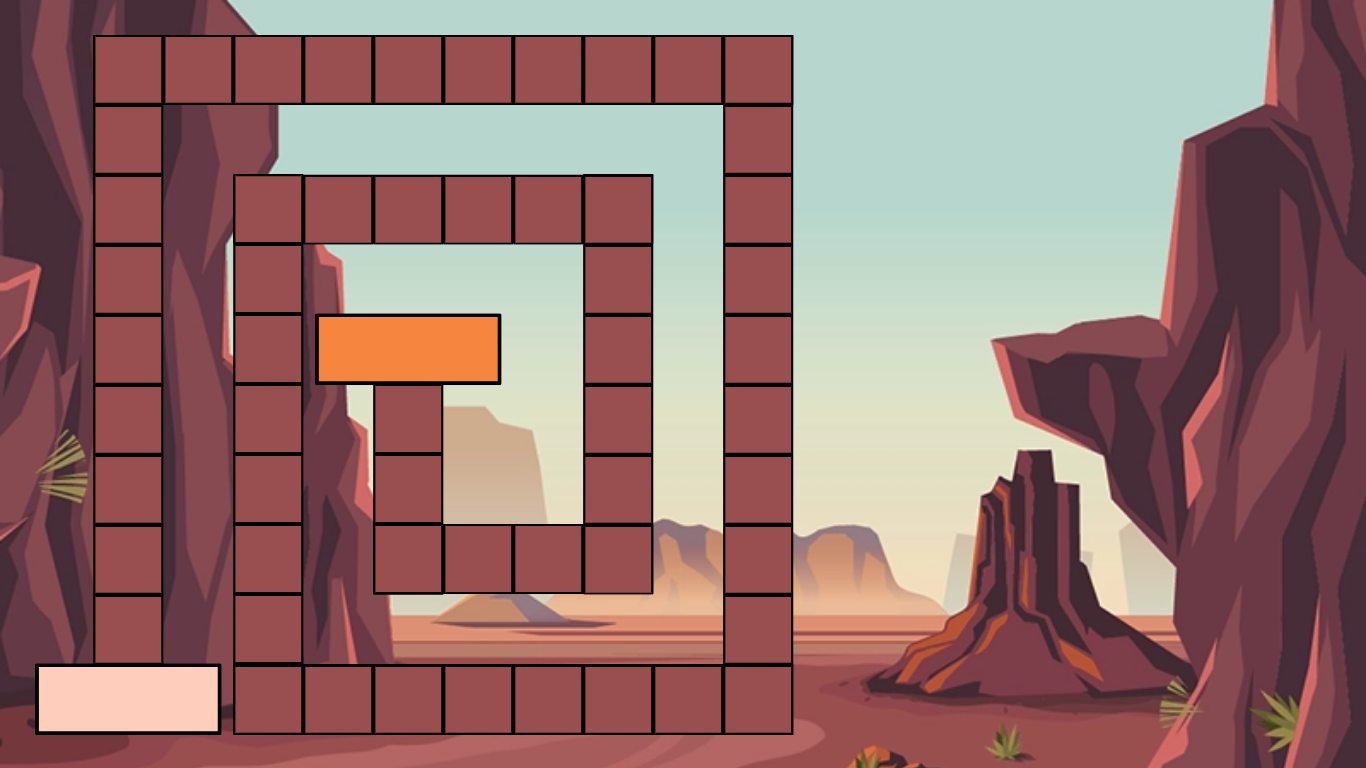
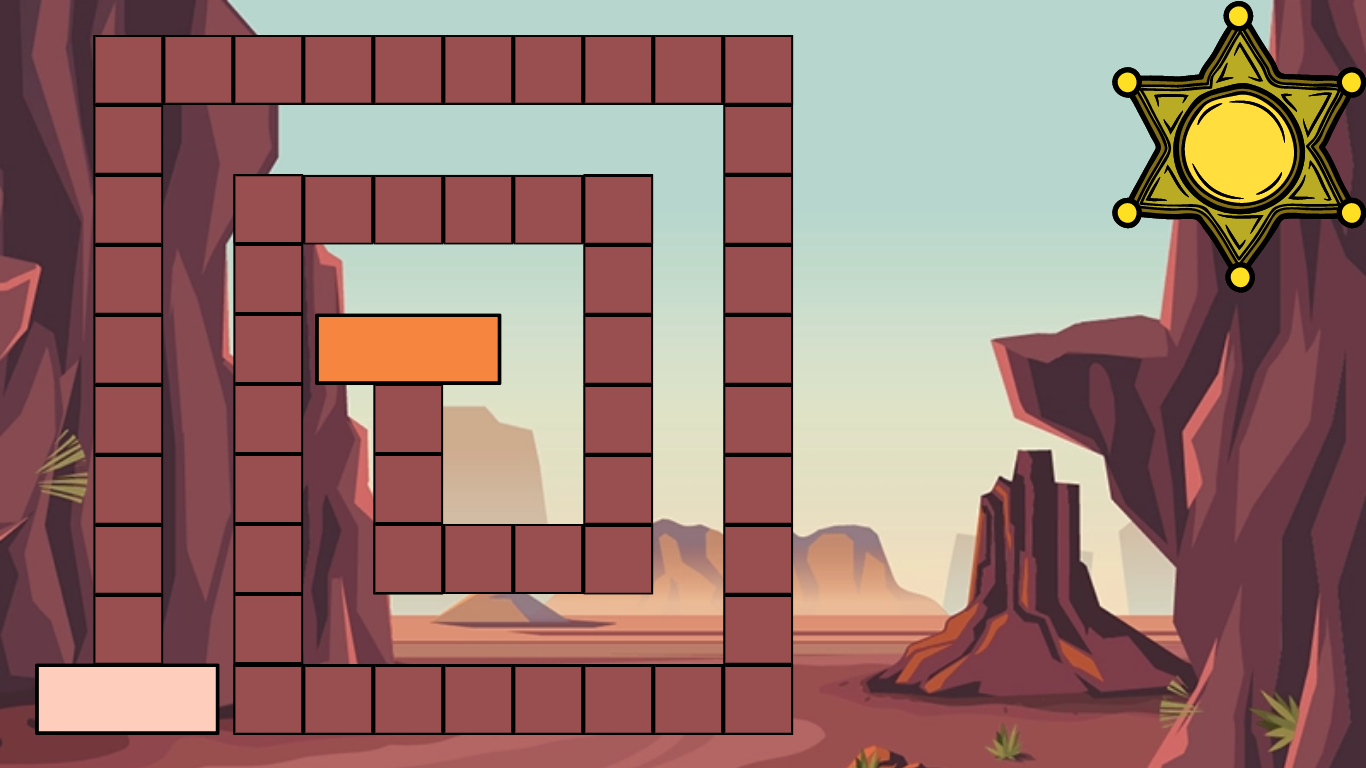
Dodanie interfejsu zmiany gracza(nazwa, zdjecie), dodanie kostki po rzucie

Changed region(s): [[0.7994, 0.0, 1.0, 0.375], [0.1537, 0.875, 0.1845, 0.9375]]

diff --git a/src/main/resources/com/example/grapio/style.css b/src/main/resources/com/example/grapio/style.css
@@ -40,3 +40,7 @@
     -fx-font-size: 32;
     -fx-control-inner-background: #d5951d;
 }
+
+.playerName {
+    -fx-text-fill: #fff;
+}

diff --git a/target/classes/com/example/grapio/style.css b/target/classes/com/example/grapio/style.css
@@ -40,3 +40,7 @@
     -fx-font-size: 32;
     -fx-control-inner-background: #d5951d;
 }
+
+.playerName {
+    -fx-text-fill: #fff;
+}

diff --git a/src/main/java/com/example/grapio/GameController.java b/src/main/java/com/example/grapio/GameController.java
@@ -24,15 +24,20 @@ public class GameController {
     private Board board;
 
     @FXML
-    Label diceLabel;
+    private Label playerLabel;
+
+    @FXML
+    private ImageView playerImage, diceImage;
 
     @FXML
     public void throwDice() {
         int roll = board.dice.giveRandom(1, 6);
-        diceLabel.setText(((Integer)roll).toString());
+        diceImage.setImage(new Image(Objects.requireNonNull(getClass().getResourceAsStream("images/dice/dice" +((Integer)roll).toString()+".png"))));
 
         board.tryMove(roll);
         board.nextPlayer();
+        playerLabel.setText(board.getPlayers(board.getWhichPlayer()).getNickName());
+        playerImage.setImage(new Image(Objects.requireNonNull(getClass().getResourceAsStream("images/players/" +((Integer)board.getWhichPlayer()).toString()+".png"))));
     }
 
     public void initializeBoard(int maxPlayers, String[] playerName) {
@@ -49,6 +54,8 @@ public class GameController {
             players.add(new PlayerClass(playerName[i]));
 
         board = new Board(fieldsImg, maxPlayers, players);
+
+        playerLabel.setText(board.getPlayers(0).getNickName());
 
         switch (maxPlayers) {
             //Sets star field images

diff --git a/src/main/java/com/example/grapio/Board.java b/src/main/java/com/example/grapio/Board.java
@@ -102,7 +102,17 @@ public class Board {
     private final List<ImageView> fieldsImg;
     private final List<PlayerClass> players;
 
+    public PlayerClass getPlayers(int id) {
+        if(id < 0 && id >= maxPlayers) return null;
+        return players.get(id);
+    }
+
     private final int maxPlayers;
+
+    public int getWhichPlayer() {
+        return whichPlayer;
+    }
+
     private int whichPlayer = 0;
 
     public Board(List<ImageView> fieldsImg, int maxPlayers, List<PlayerClass> players) {
